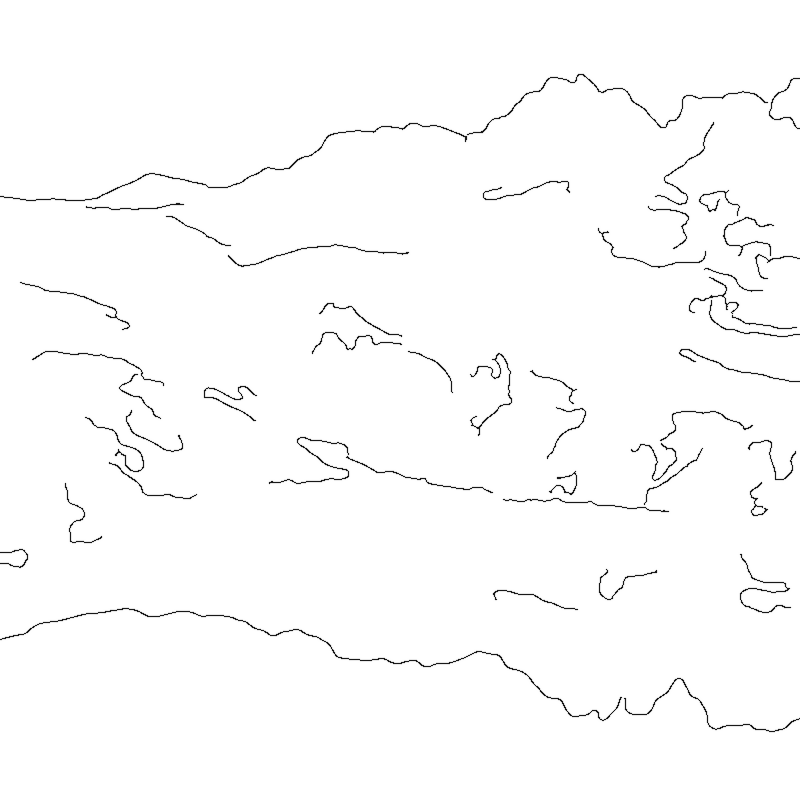
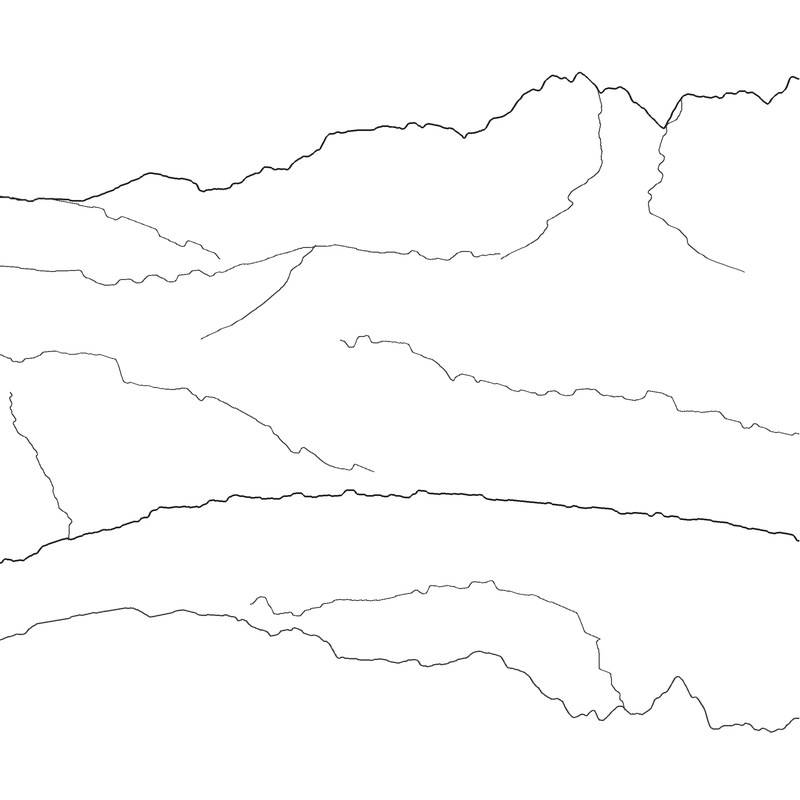
refine shoreline and mountain contours

diff --git a/scripts/generate_mountain_etching.py b/scripts/generate_mountain_etching.py
@@ -1,49 +1,181 @@
-"""Trace the photograph's main contours at their original pixel coordinates.
+"""Trace selected landscape boundaries in the homepage's mountain photograph.
 
 Run: python3 scripts/generate_mountain_etching.py
-Requires Pillow, NumPy, and SciPy. No resizing, cropping, or geometric warping.
+Requires Pillow, NumPy, and SciPy. The guides below are specific to the original
+800 × 800 photo: they identify meaningful features, then image contrast locates
+their contours. Source pixels are never resized, cropped, or geometrically warped.
 """
 
 import argparse
 from pathlib import Path
 
 import numpy as np
-from PIL import Image
+from PIL import Image, ImageDraw
 from scipy import ndimage
 
 
-def make_etching(source):
-    rgb = np.asarray(source.convert("RGB"), dtype=np.float32) / 255
-    luminance = rgb @ np.array([0.2126, 0.7152, 0.0722], dtype=np.float32)
-    y, x = np.indices(luminance.shape, dtype=np.float32)
-    # Suppress rock/snow texture before tracing the main landscape boundaries.
-    smooth = ndimage.gaussian_filter(luminance, 3.6)
+# These are search corridors, not the final drawn lines. Keeping them specific to
+# this scene avoids mistaking isolated snow patches for major landscape features.
+SKYLINE = [
+    (0, 197), (80, 200), (110, 188), (150, 175), (180, 179), (210, 186),
+    (240, 178), (263, 168), (280, 169), (316, 148), (330, 134), (360, 131),
+    (390, 131), (410, 123), (450, 131), (465, 142), (489, 118), (510, 105),
+    (535, 91), (551, 78), (570, 83), (580, 73), (600, 92), (619, 88),
+    (642, 109), (664, 134), (682, 96), (700, 99), (720, 93), (749, 93),
+    (767, 105), (789, 81), (799, 80),
+]
+SHORELINE = [
+    (0, 563), (20, 559), (35, 548), (60, 539), (90, 532), (120, 520),
+    (155, 509), (200, 502), (250, 495), (300, 491), (350, 488), (400, 490),
+    (450, 494), (500, 502), (550, 507), (600, 513), (650, 517), (700, 522),
+    (750, 527), (799, 536),
+]
+REFLECTION = [
+    (0, 638), (35, 623), (70, 617), (100, 610), (130, 605), (150, 617),
+    (180, 611), (200, 616), (230, 618), (270, 635), (290, 631), (320, 642),
+    (338, 657), (370, 658), (410, 665), (445, 660), (479, 653), (500, 659),
+    (530, 684), (560, 704), (580, 715), (600, 717), (618, 701), (630, 713),
+    (650, 699), (675, 680), (690, 697), (710, 728), (745, 727), (770, 733),
+    (799, 719),
+]
 
-    # Trace local contrast ridges, thinning them along the gradient direction.
+# Each entry names a visible ridge, its guide, and whether to follow it down the
+# image instead of across. These sparse lines describe the terrain's large planes.
+RIDGES = [
+    ("left slope", False, [
+        (0, 199), (55, 210), (100, 218), (150, 237), (195, 253), (220, 262),
+    ]),
+    ("middle ridge", False, [
+        (0, 274), (60, 278), (110, 276), (160, 274), (200, 270),
+        (245, 255), (285, 245), (325, 244), (365, 251), (410, 251),
+        (454, 261), (500, 263),
+    ]),
+    ("near ridge", False, [
+        (0, 356), (55, 351), (95, 363), (130, 374), (164, 386),
+        (197, 388), (230, 412), (266, 432), (305, 447), (350, 472), (374, 482),
+    ]),
+    ("right bank", False, [
+        (340, 345), (382, 346), (421, 358), (453, 382), (488, 390),
+        (532, 403), (584, 398), (625, 395), (680, 404), (735, 418), (799, 433),
+    ]),
+    ("central peak", True, [
+        (594, 91), (602, 122), (595, 157), (585, 180), (570, 203),
+        (548, 225), (520, 244), (503, 259),
+    ]),
+    ("right peak", True, [
+        (683, 100), (671, 133), (663, 159), (653, 192), (656, 216),
+        (678, 239), (702, 259), (735, 272),
+    ]),
+    ("middle slope", True, [
+        (325, 245), (303, 268), (273, 290), (246, 313), (211, 339),
+    ]),
+    ("left cliff", True, [
+        (0, 392), (23, 423), (43, 460), (57, 494), (63, 521), (63, 540),
+    ]),
+]
+
+
+def trace_boundary(field, guide, radius=10, sigma=2.6, polarity=0,
+                   vertical=False, water_onset=False, anchor_start=False):
+    """Find a continuous, low-cost path through local image contrast.
+
+    A narrow corridor selects the feature; the source image determines its exact
+    position. Continuity connects weak sections without lowering an edge threshold
+    across the whole photograph and bringing back surface texture.
+    """
+    guide = np.asarray(guide, dtype=float)
+    if vertical:
+        field = field.T
+        guide = guide[:, ::-1]
+    guide = guide[np.argsort(guide[:, 0])]
+    xs = np.arange(int(guide[0, 0]), int(guide[-1, 0]) + 1)
+    baseline = np.interp(xs, guide[:, 0], guide[:, 1])
+    offsets = np.arange(-radius, radius + 1)
+    yy = baseline[:, None] + offsets
+    xx = np.broadcast_to(xs[:, None], yy.shape)
+
+    smooth = ndimage.gaussian_filter(field, sigma)
     gx = ndimage.sobel(smooth, axis=1) / 8
     gy = ndimage.sobel(smooth, axis=0) / 8
-    magnitude = np.hypot(gx, gy)
-    dx = gx / (magnitude + 1e-6)
-    dy = gy / (magnitude + 1e-6)
-    before = ndimage.map_coordinates(
-        magnitude, [y - dy, x - dx], order=1, mode="nearest"
-    )
-    after = ndimage.map_coordinates(
-        magnitude, [y + dy, x + dx], order=1, mode="nearest"
-    )
-    ridges = (magnitude >= before) & (magnitude >= after)
-    edges = ndimage.binary_propagation(
-        ridges & (magnitude > 0.045),
-        structure=np.ones((3, 3)),
-        mask=ridges & (magnitude > 0.018),
-    )
-    labels, _ = ndimage.label(edges, structure=np.ones((3, 3)))
-    sizes = np.bincount(labels.ravel())
-    edges &= sizes[labels] >= 70
+    horizontal = ndimage.map_coordinates(gx, [yy, xx], order=1, mode="nearest")
+    vertical_gradient = ndimage.map_coordinates(gy, [yy, xx], order=1, mode="nearest")
+    slope = np.gradient(baseline)[:, None]
+    contrast = (vertical_gradient - slope * horizontal) / np.sqrt(1 + slope ** 2)
+    strength = np.maximum(polarity * contrast, 0) if polarity else abs(contrast)
 
-    # Keep a light, antialiased stroke with no hatching, texture, or tonal fill.
-    ink = np.clip(ndimage.gaussian_filter(edges.astype(float), 0.45) * 1.4, 0, 1) * 0.90
-    return Image.fromarray(np.uint8(np.clip(1 - ink, 0, 1) * 255))
+    if water_onset:
+        # Follow the first change from neutral land into blue-green water, rather
+        # than the stronger colour changes farther down inside the reflection.
+        chroma = ndimage.map_coordinates(smooth, [yy, xx], order=1, mode="nearest")
+        strength *= 1 / (1 + np.exp(np.clip((chroma - 0.055) * 65, -40, 40)))
+
+    strength /= np.maximum(strength.max(axis=1, keepdims=True), 0.002)
+    cost = -strength + 0.06 * (offsets[None, :] / radius) ** 2
+    transitions = 0.10 * (offsets[:, None] - offsets[None, :]) ** 2
+    back = np.zeros_like(cost, dtype=int)
+    totals = cost[0].copy()
+    if anchor_start:
+        totals[offsets != 0] = np.inf
+    for i in range(1, len(xs)):
+        choices = totals[:, None] + transitions
+        back[i] = choices.argmin(axis=0)
+        totals = cost[i] + choices.min(axis=0)
+
+    path = np.empty(len(xs), dtype=int)
+    path[-1] = totals.argmin()
+    for i in range(len(xs) - 1, 0, -1):
+        path[i - 1] = back[i, path[i]]
+    ys = ndimage.gaussian_filter1d(baseline + offsets[path], 0.65)
+    if anchor_start:
+        ys[0] = baseline[0]
+    points = np.column_stack([xs, ys])
+    return points[:, ::-1] if vertical else points
+
+
+def landscape_paths(source):
+    if source.size != (800, 800):
+        raise ValueError("The contour guides require the original 800 × 800 photograph.")
+    rgb = np.asarray(source.convert("RGB"), dtype=float) / 255
+    luminance = rgb @ [0.2126, 0.7152, 0.0722]
+    water = (rgb[:, :, 1] + rgb[:, :, 2] - 2 * rgb[:, :, 0]) / (rgb.sum(axis=2) + 0.05)
+    paths = [
+        ("skyline", trace_boundary(luminance, SKYLINE, radius=9, sigma=1.4, polarity=-1)),
+        ("shoreline", trace_boundary(water, SHORELINE, radius=8, sigma=1.6,
+                                     polarity=1, water_onset=True)),
+        ("reflection", trace_boundary(luminance, REFLECTION, sigma=1.4, polarity=1)),
+    ]
+    for name, vertical, guide in RIDGES:
+        paths.append((name, trace_boundary(luminance, guide, vertical=vertical)))
+
+    reflected_slope = trace_boundary(luminance, [
+        (250, 604), (300, 608), (350, 601), (400, 591), (450, 582),
+        (480, 578), (510, 595), (540, 605), (570, 618), (600, 631),
+    ], radius=8, sigma=2.8)
+    # Join the reflected face to the measured slope, rather than leave an
+    # arbitrary gap where two independently traced sections meet.
+    join = reflected_slope[-1].copy()
+    join[1] = round(join[1])
+    reflected_slope[-1] = join
+    paths.extend([
+        ("reflected slope", reflected_slope),
+        ("reflected peak", trace_boundary(luminance, [
+            join, (606, 650), (606, 678), (615, 699), (618, 710),
+        ], radius=7, sigma=2.2, vertical=True, anchor_start=True)),
+    ])
+    return paths
+
+
+def make_etching(source, paths):
+    # Supersample only the strokes, not the source image. Preserve the 800 × 800
+    # alignment while making fine lines readable at the homepage's 200 px size.
+    scale = 3
+    canvas = Image.new("L", (source.width * scale, source.height * scale), 255)
+    draw = ImageDraw.Draw(canvas)
+    for name, points in paths:
+        primary = name in ("skyline", "shoreline")
+        width = 5 if primary else (4 if name == "reflection" else 3)
+        draw.line([tuple(p * scale) for p in points], fill=35 if primary else 65, width=width)
+    return canvas.resize(source.size, Image.Resampling.LANCZOS)
 
 
 def main():
@@ -55,9 +187,18 @@ def main():
     parser.add_argument(
         "--output", type=Path, default=root / "images/home-mountain-etching.webp"
     )
+    parser.add_argument("--overlay", type=Path, help="Save a contour overlay for checking alignment.")
     args = parser.parse_args()
     with Image.open(args.source) as source:
-        result = make_etching(source)
+        paths = landscape_paths(source)
+        result = make_etching(source, paths)
+        if args.overlay:
+            overlay = source.convert("RGB")
+            draw = ImageDraw.Draw(overlay)
+            for name, points in paths:
+                draw.line([tuple(p) for p in points],
+                          fill="#e84094" if name == "shoreline" else "#e74736", width=2)
+            overlay.save(args.overlay)
     result.save(args.output, format="WEBP", lossless=True, method=6)
     print(f"Saved {args.output} ({result.width} × {result.height})")
 
